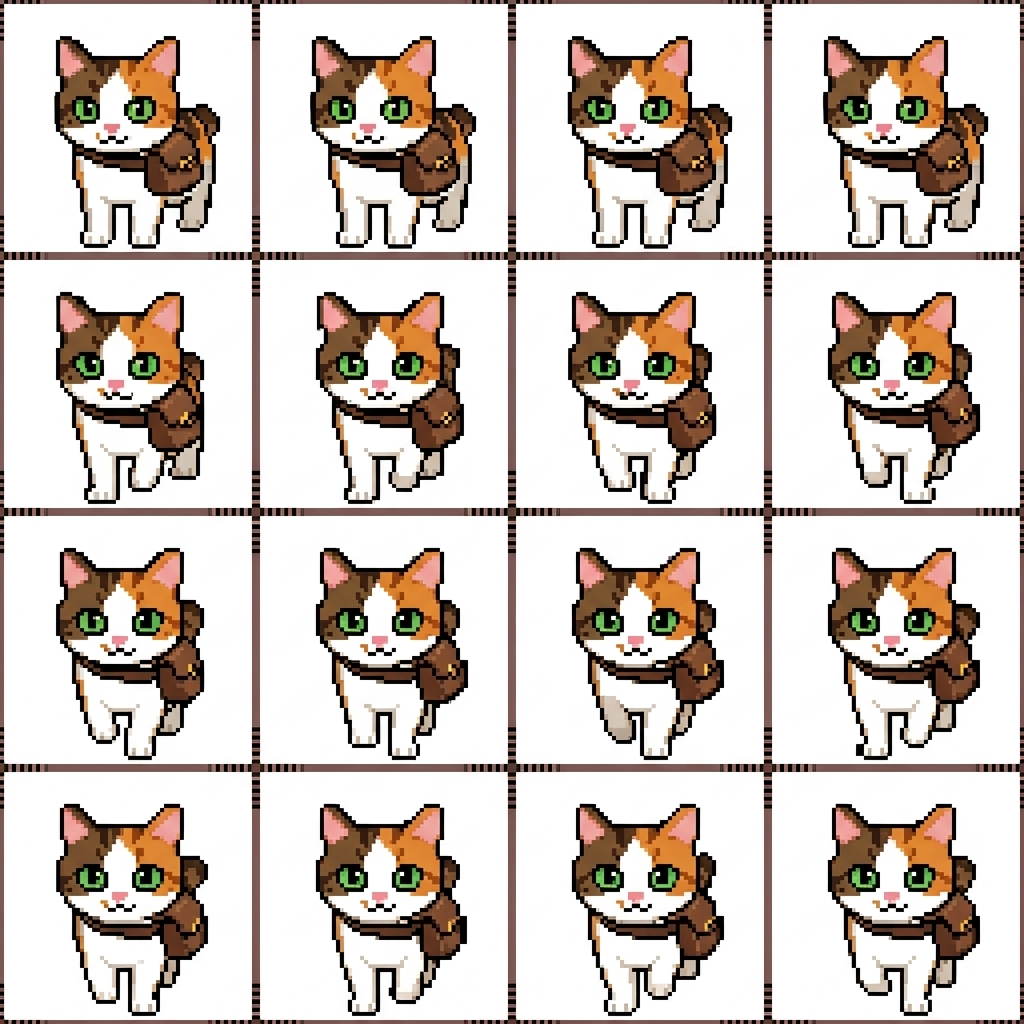
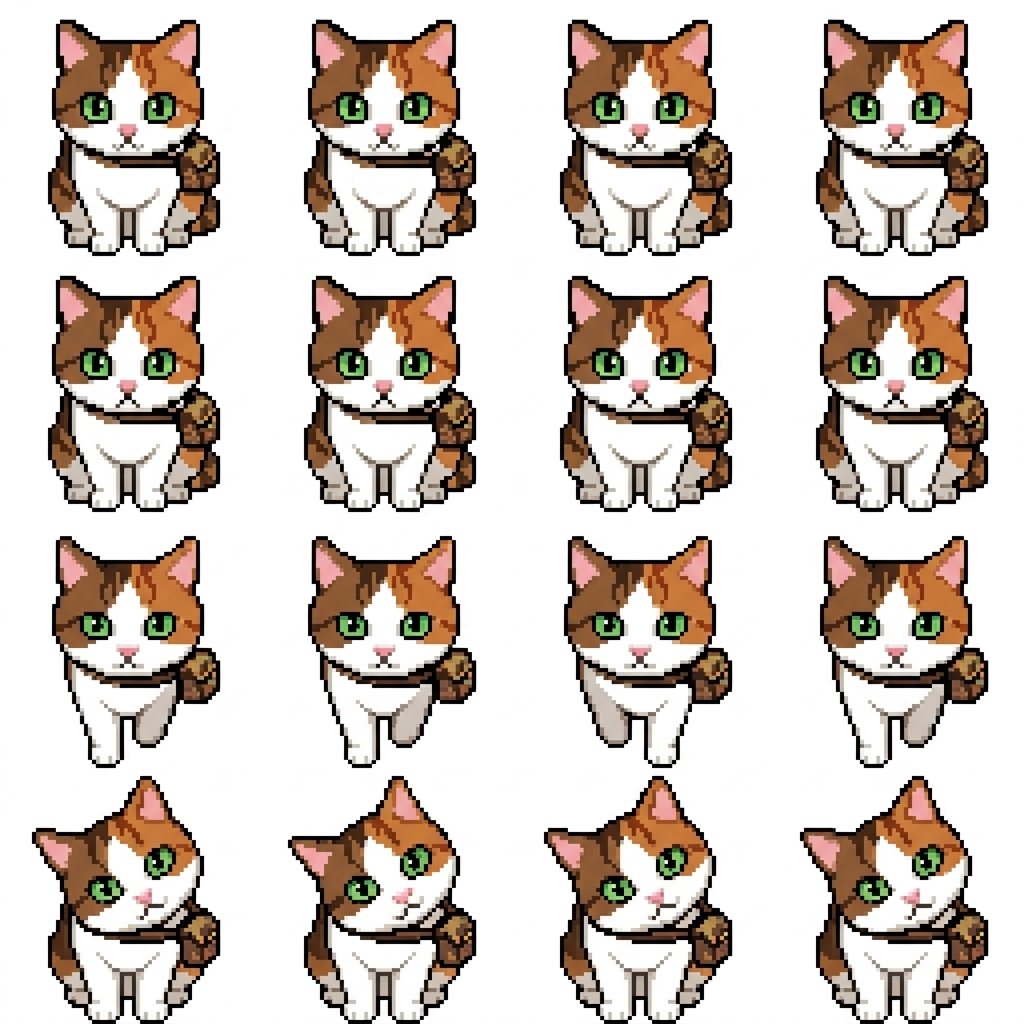
Fix sprite sheet background artifacts: remove grid patterns and improve transparent edge extraction

diff --git a/games/prism-tycoon/index.html b/games/prism-tycoon/index.html
@@ -657,7 +657,9 @@
         const i = y * w + x;
         if (visited[i]) return;
         const p = i * 4;
-        if (px[p] > 215 && px[p + 1] > 215 && px[p + 2] > 215) {
+        const r = px[p], g = px[p + 1], b = px[p + 2];
+        // 흰색/연회색 배경(JPEG 압축 노이즈 포함) 판별: RGB가 모두 195 이상이고 무채색에 가까울 때
+        if (r > 195 && g > 195 && b > 195 && Math.abs(r - g) < 30 && Math.abs(g - b) < 30) {
           visited[i] = 1;
           queue.push(i);
         }
